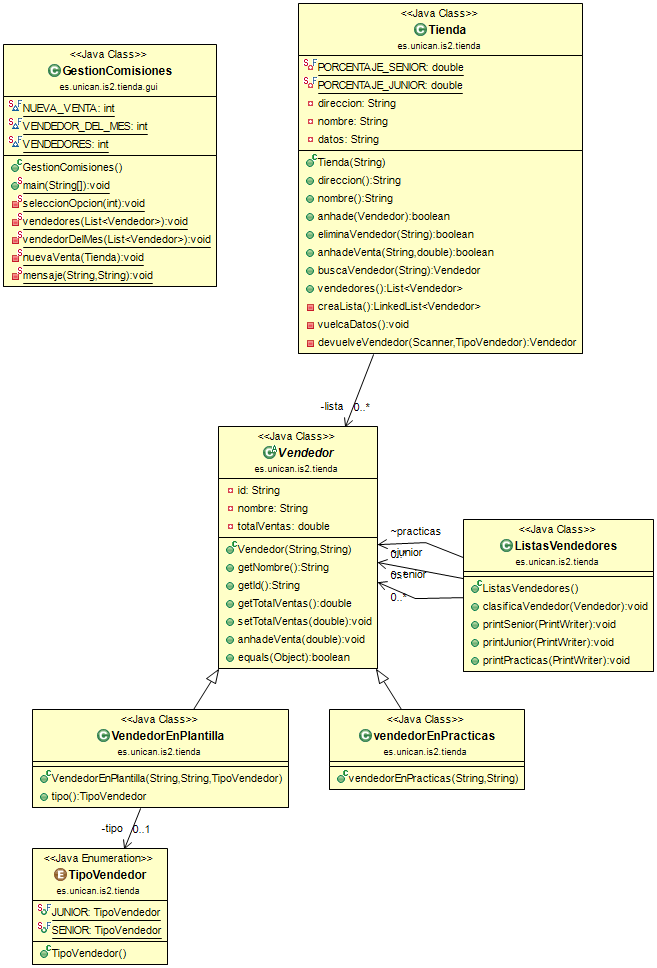
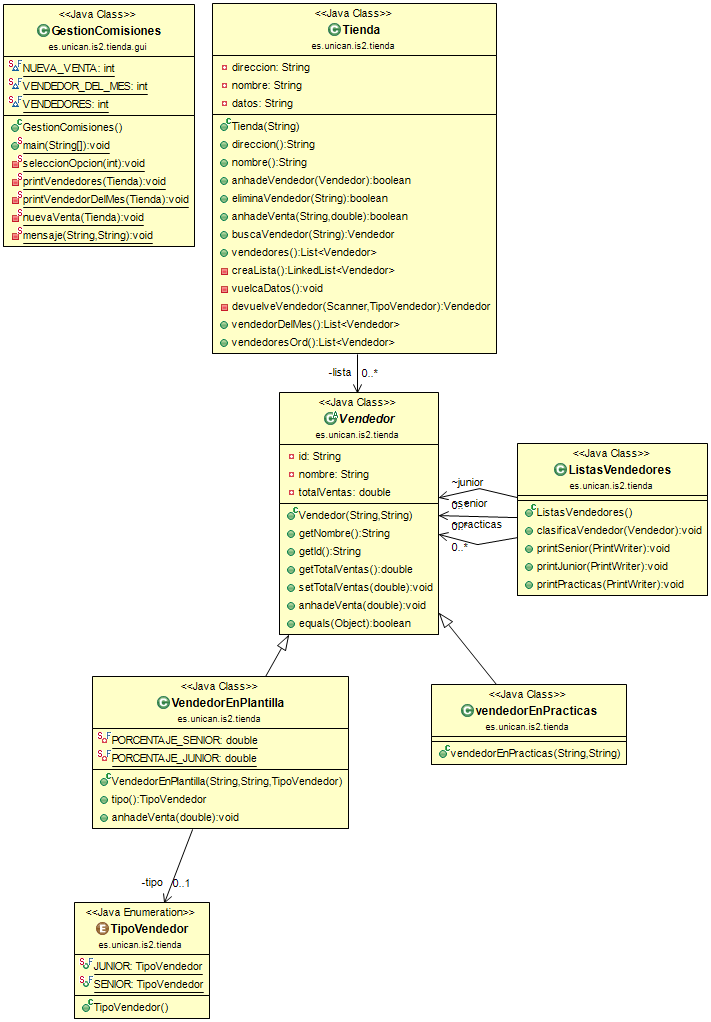
Correcciones finales del proyecto solucion

diff --git a/Practica7/src/main/java/es/unican/is2/tienda/VendedorEnPlantilla.java b/Practica7/src/main/java/es/unican/is2/tienda/VendedorEnPlantilla.java
@@ -4,6 +4,8 @@ package es.unican.is2.tienda;
 public class VendedorEnPlantilla extends Vendedor {
 	
 	private TipoVendedor tipo;
+	private static final double PORCENTAJE_SENIOR = 0.01;
+	private static final double PORCENTAJE_JUNIOR = 0.005;
 	
 	/**
 	 * Retorna un nuevo vendedor en plantilla del tipo que se indica
@@ -19,4 +21,17 @@ public class VendedorEnPlantilla extends Vendedor {
 	public TipoVendedor tipo() { //WMC=1 //Ccog=0
 		return tipo;
 	}
+	
+	public void anhadeVenta(double importe) {//WMC=3 //Ccog=1
+		double importeFinal = importe;
+			switch (tipo()) { //Ccog=+1
+			case JUNIOR:	//WMC=+1
+				importeFinal += importeFinal * PORCENTAJE_JUNIOR;
+				break;
+			case SENIOR:	//WMC=+1
+				importeFinal += importeFinal * PORCENTAJE_SENIOR;
+				break;
+			}
+		}
+		
 }
